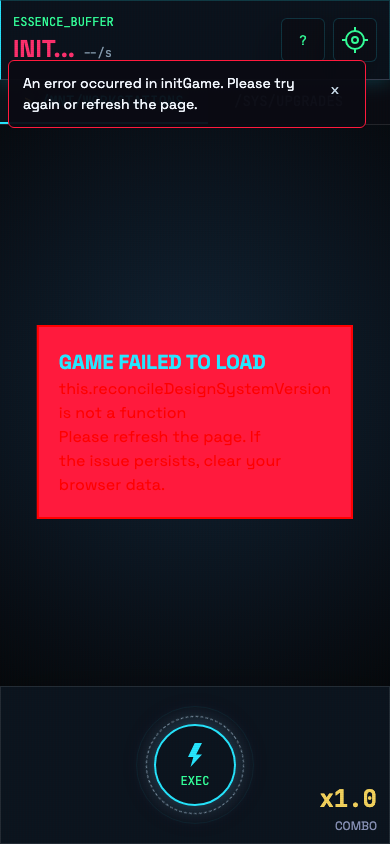
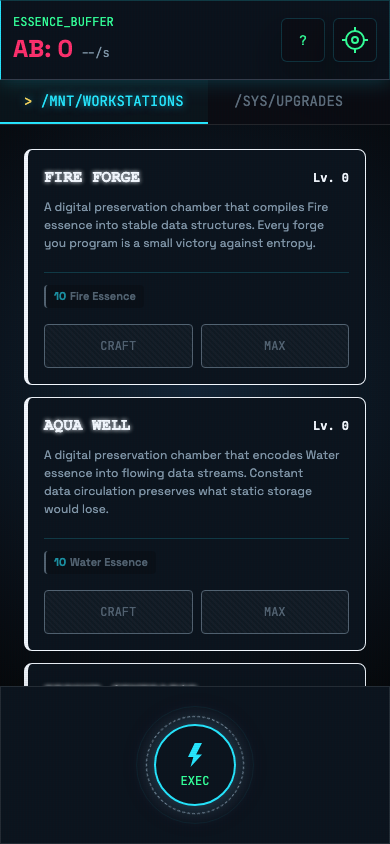
omx(team): auto-checkpoint worker-1 [1]

diff --git a/js/modules/game/designTierSystem.js b/js/modules/game/designTierSystem.js
@@ -39,6 +39,34 @@ export class DesignTierSystem {
     }
 
     /**
+     * Keep the live document on the current design-system version without
+     * routing through applyTier(), which can toggle audio during boot.
+     */
+    async reconcileDesignSystemVersion() {
+        const storedVersion = localStorage.getItem(DesignTierSystem.DESIGN_SYSTEM_STORAGE_KEY);
+        document.documentElement.dataset.designSystemVersion = DesignTierSystem.DESIGN_SYSTEM_VERSION;
+
+        if (storedVersion === DesignTierSystem.DESIGN_SYSTEM_VERSION) return;
+
+        const tier = Number.isFinite(this.currentTier) ? this.currentTier : 0;
+        if (tier <= 0) {
+            this.setTheme({
+                primary: COLORS.KY_CRYSTAL,
+                secondary: COLORS.KY_STEEL,
+                accent: COLORS.KY_CRYSTAL,
+                corruption: COLORS.KY_RED
+            });
+        } else {
+            this.setTheme(KYANITE_THEME);
+        }
+
+        localStorage.setItem(
+            DesignTierSystem.DESIGN_SYSTEM_STORAGE_KEY,
+            DesignTierSystem.DESIGN_SYSTEM_VERSION
+        );
+    }
+
+    /**
      * Check if a tier should be unlocked based on game state
      */
     checkTierUnlocks() {
